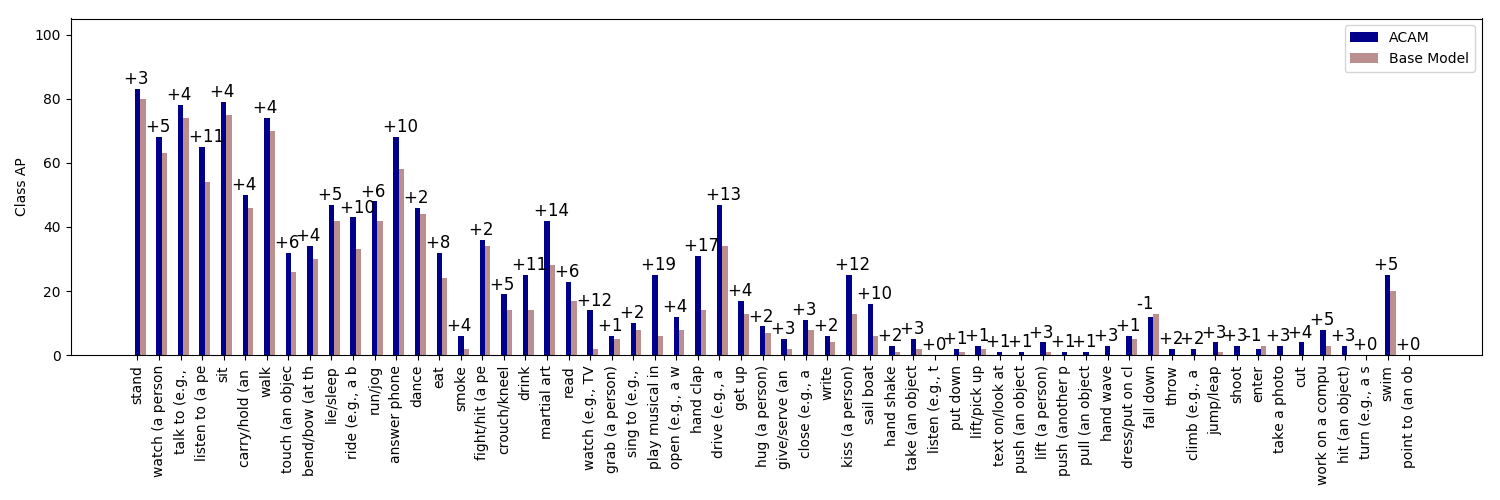
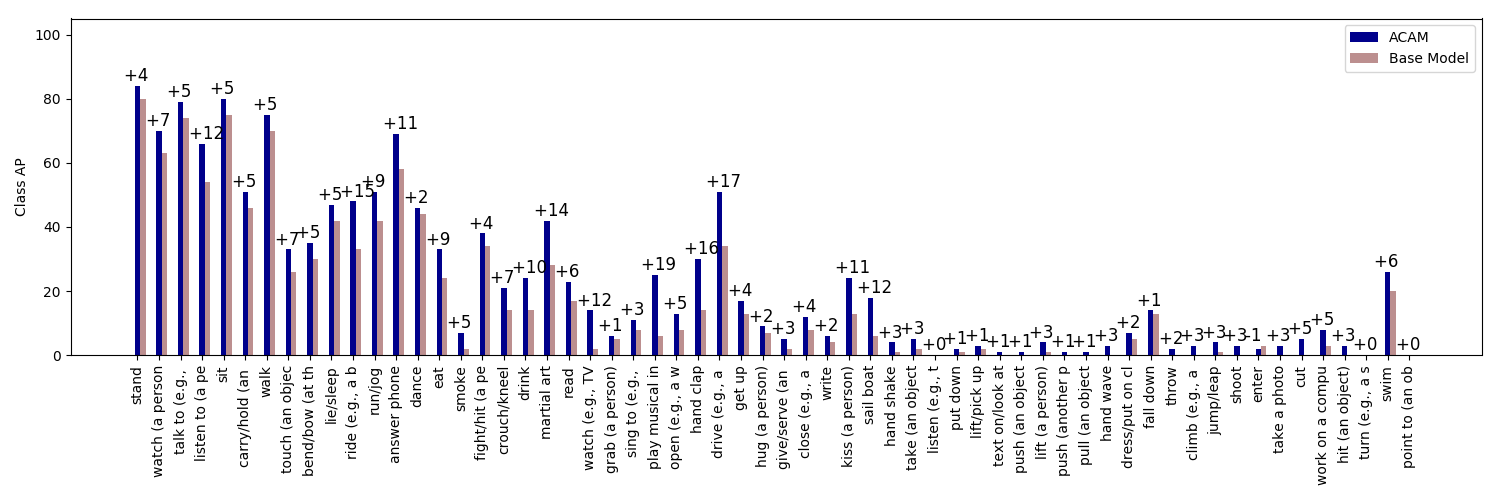
new results

diff --git a/scripts/generate_per_class_ap.py b/scripts/generate_per_class_ap.py
@@ -7,7 +7,8 @@ import matplotlib.pyplot as plt
 
 #res1_file = "VALIDATION_Results_soft_attn_23.json"
 #res1_file = "VALIDATION_Results_soft_attn_pooled_51.json"
-res1_file = "VALIDATION_Results_soft_attn_pooled_cosine_drop_170.json"
+#res1_file = "VALIDATION_Results_soft_attn_pooled_cosine_drop_170.json"
+res1_file = "VALIDATION_Results_ava21_notfinetuned_190.json"
 #res2_file = "VALIDATION_Results_soft_attn_23.json"
 res2_file = "VALIDATION_Results_basic_model_33.json"
 
